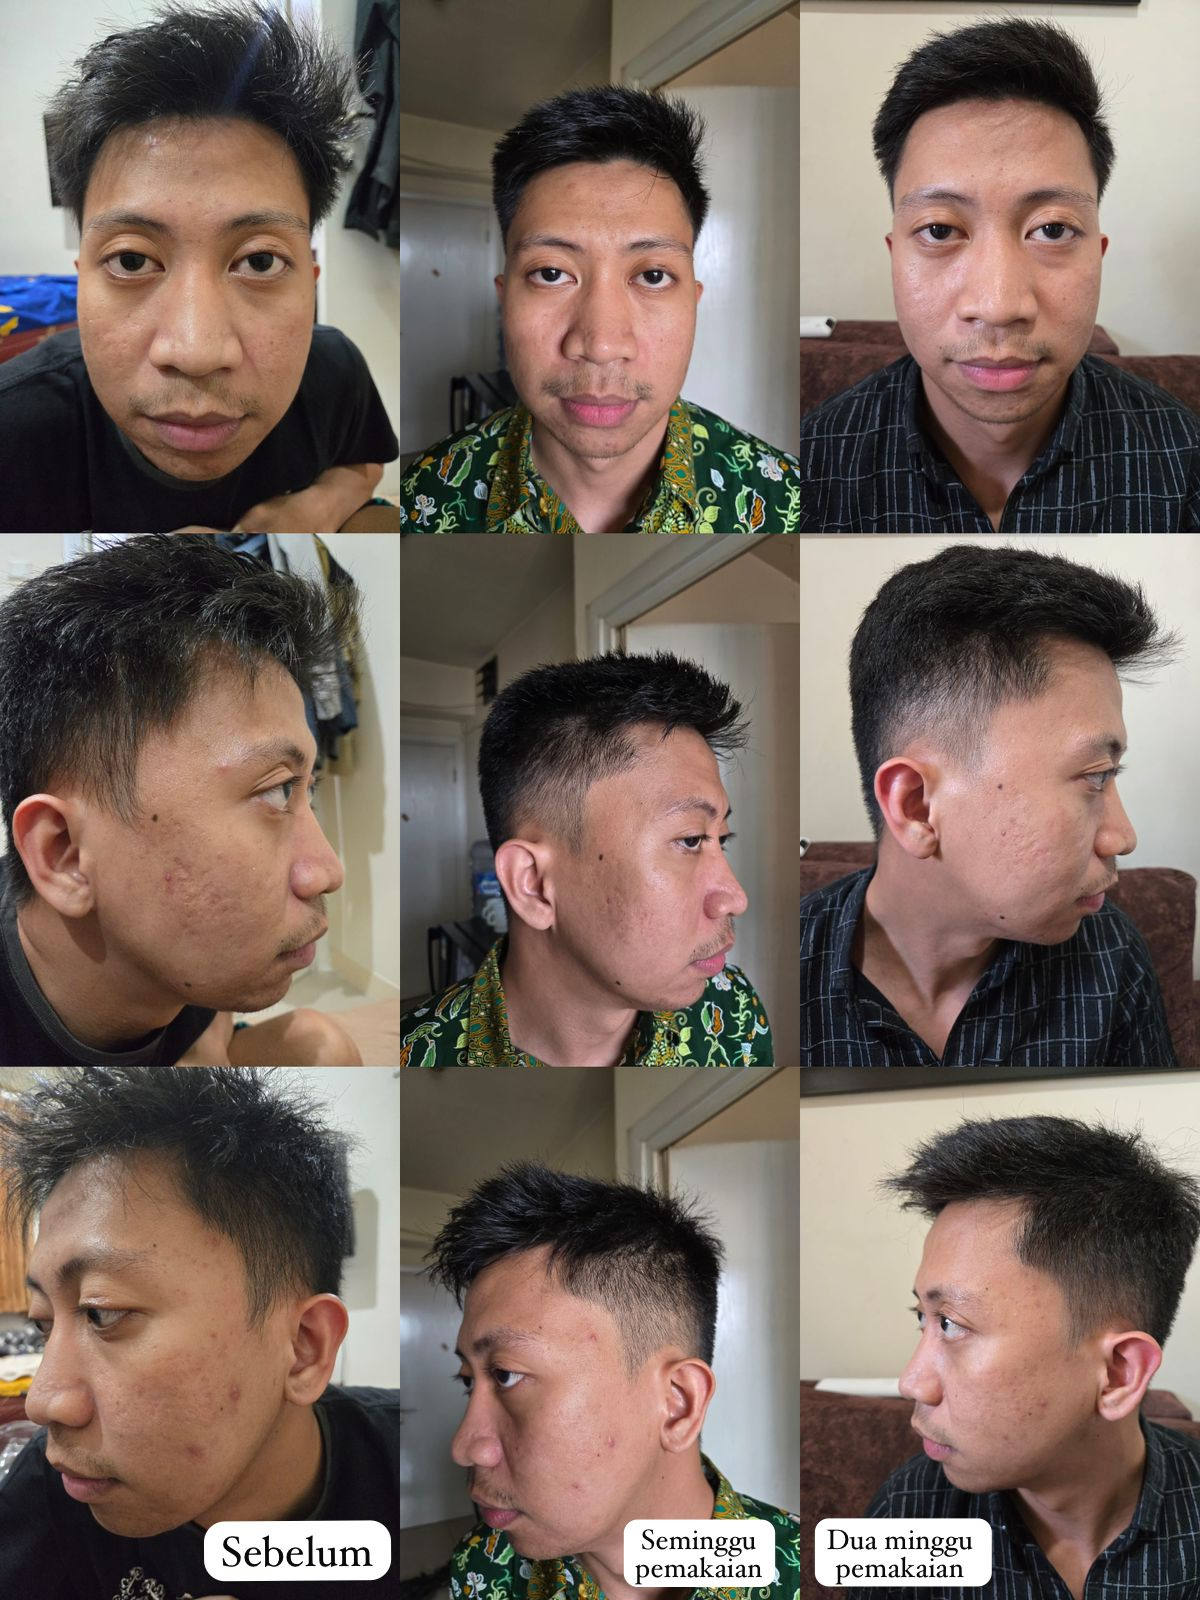
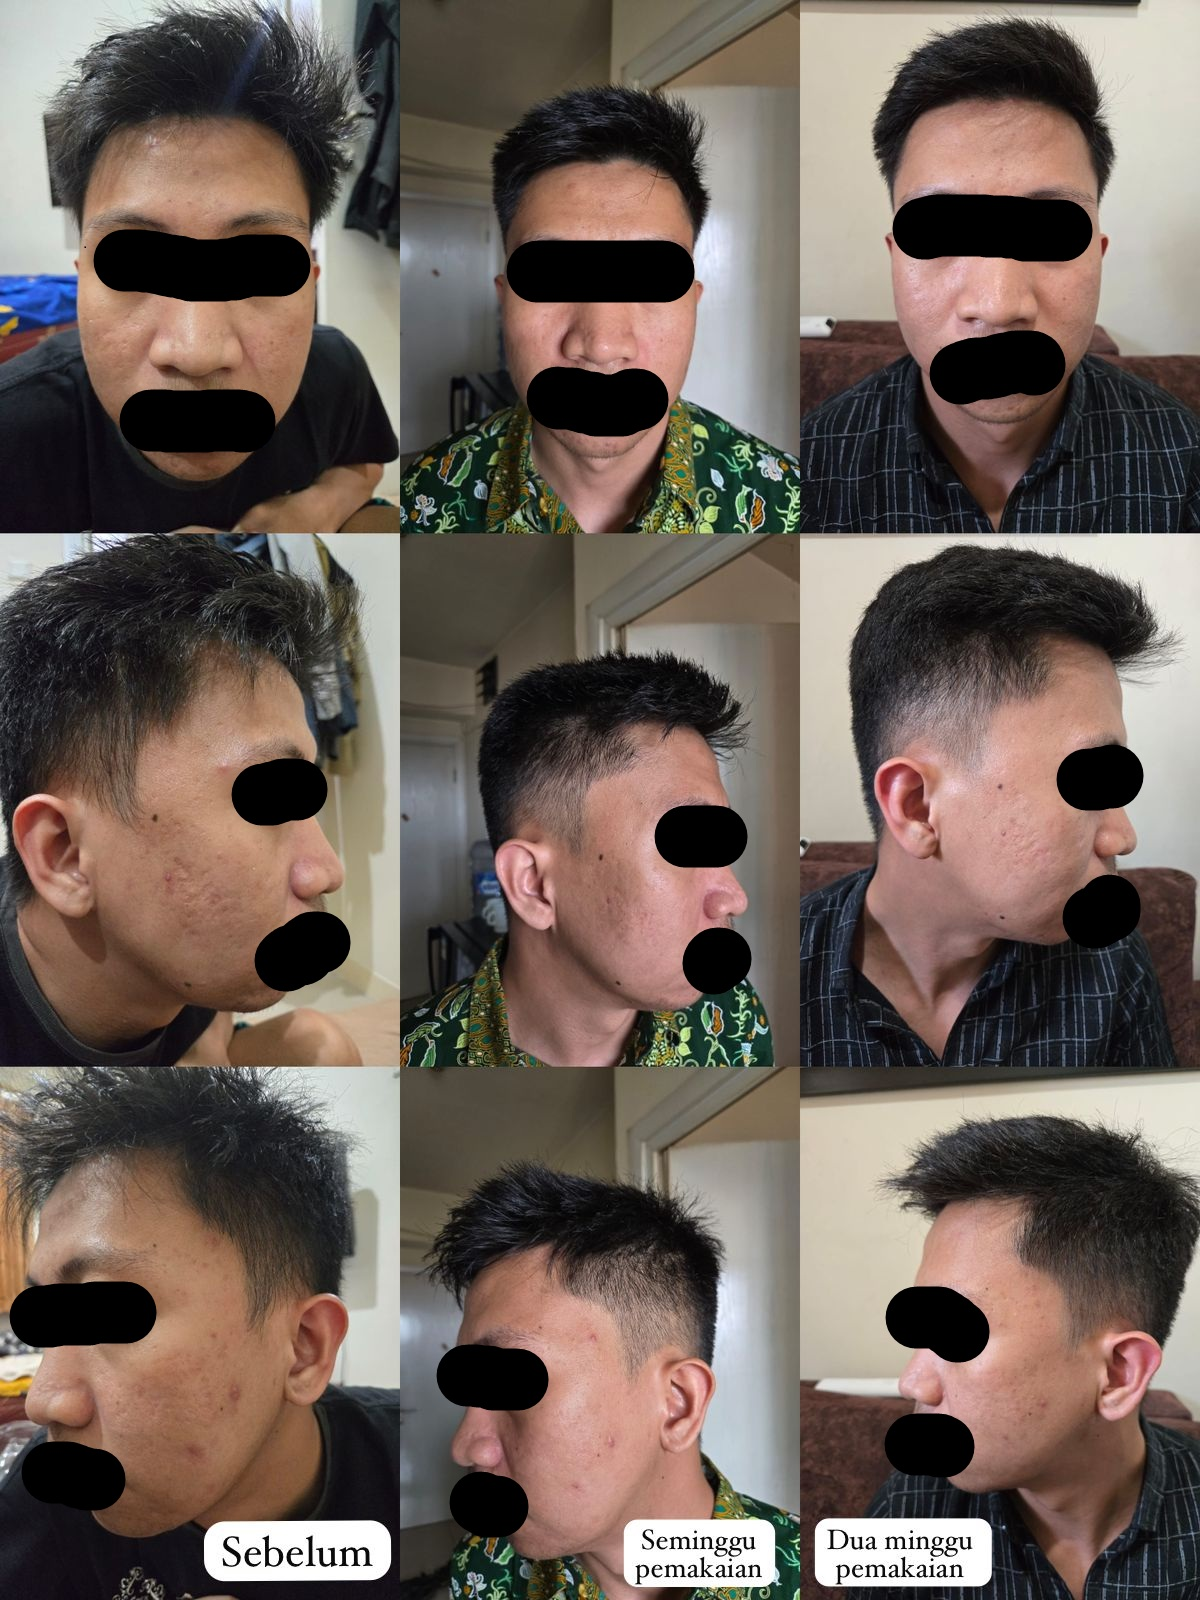
Add censored before-after UI & update clinical
Introduce CSS for censored/ masked before-after photo grids and UI tweaks (new mask-layer, grid variants, science-abstract-card, responsive before-after grid, spacing fixes). Update clinical.html: replace single BA image with a two-card censored before-after grid, update testimonial images/alt text and Novel testimonial copy, add a clinical score section, and replace the abstract paragraph with a styled abstract card. Also replace/rename human images (Faqih/Novel) to new filenames and update image binaries.

diff --git a/clinical.html b/clinical.html
@@ -37,7 +37,7 @@
   <section class="testimonials fade-section">
     <article class="testimonial-card">
       <div class="testimonial-photo censored-face">
-        <img src="assets/images/human/human4.jpeg" alt="Foto testimoni Faqih">
+        <img src="assets/images/human/Faqih1.jpeg" alt="Foto testimoni Faqih">
       </div>
       <blockquote>
         “Kulit saya sangat sensitif bahkan bisa merah berkerak klo berminyak (radang/inflamasi).
@@ -53,10 +53,10 @@
 
     <article class="testimonial-card">
       <div class="testimonial-photo censored-face">
-        <img src="assets/images/human/human2.jpeg" alt="Foto testimoni Novel">
+        <img src="assets/images/human/novel1.jpeg" alt="Foto testimoni Novel">
       </div>
       <blockquote>
-        “Testimoni Novel akan diperbarui setelah data final dari sesi evaluasi berikutnya.”
+        “Setelah melalui breakout parah yang meninggalkan bekas hitam dan kemerahan dan menggunakan serum ini, bekas hitam saya dan peradangan berkurang. Wajah juga semakin cerah dan kemunculan jerawat berkurang”
       </blockquote>
       <div class="testimonial-author">
         <strong>Novel</strong>
@@ -77,9 +77,20 @@
       Image presented without retouching or digital enhancement.
     </p>
 
-    <div class="ba-single-image">
-      <img src="assets/images/science/before-after-1-week-dermoree.jpeg" 
-           alt="Before and After 1 Week Dermoree">
+    <div class="before-after-grid-censored">
+        <div class="ba-censored-card">
+          <div class="ba-censored-image censored-face">
+            <img src="assets/images/human/faqih.jpeg" alt="Before after Faqih">
+          </div>
+          <p>Faqih</p>
+        </div>
+
+        <div class="ba-censored-card">
+          <div class="ba-censored-image censored-face">
+            <img src="assets/images/human/novel.jpeg" alt="Before after Novel">
+          </div>
+          <p>Novel</p>
+        </div>
     </div>
 
     <p class="ba-note">
@@ -127,6 +138,43 @@
   </section>
 
 
+  <section class="score-section fade-section">
+    <h3>Novel Clinical Scoring (0–10)</h3>
+<div class="score-chart">
+      <div class="score-row">
+        <span>Soothing and caring</span>
+        <div class="score-track">
+          <div class="score-fill" style="--score:100%"></div>
+        </div>
+        <strong>9</strong>
+      </div>
+
+      <div class="score-row">
+        <span>Support skin renewal</span>
+        <div class="score-track">
+          <div class="score-fill" style="--score:80%"></div>
+        </div>
+        <strong>8</strong>
+      </div>
+
+      <div class="score-row">
+        <span>Brightens &amp; even tone</span>
+        <div class="score-track">
+          <div class="score-fill" style="--score:90%"></div>
+        </div>
+        <strong>8</strong>
+      </div>
+
+      <div class="score-row">
+        <span>Microbiome friendly barrier</span>
+        <div class="score-track">
+          <div class="score-fill" style="--score:90%"></div>
+        </div>
+        <strong>9</strong>
+      </div>
+    </div>
+
+  </section>
 
   <!-- =========================
      SAFETY & TOLERABILITY
@@ -140,12 +188,12 @@
   </section>
 
   <section class="science-abstract fade-section"></section>
-    <p>
-      <strong>Abstract:</strong> This review synthesizes scientific evidence supporting the efficacy of key bioactive compounds
-      —Centella asiatica exosomes, DNA salmon (PDRN), niacinamide, and fermented honey.
-      Each compound's mechanisms of action and documented benefits are discussed,
-      highlighting their synergistic potential to deliver scientifically-backed results.
-    </p>
+    <div class="science-abstract-card">
+      <h3>Abstract</h3>
+      <p>
+        This review synthesizes scientific evidence supporting the efficacy of key bioactive compounds—Centella asiatica exosomes, DNA salmon (PDRN), niacinamide, and fermented honey. Each compound's mechanisms of action and documented benefits are discussed, highlighting their synergistic potential to deliver scientifically-backed results.
+      </p>
+    </div>
   </section>
 
   <section class="science-grid fade-section">

diff --git a/assets/css/05-components.css b/assets/css/05-components.css
@@ -141,7 +141,7 @@
   .highlight-card img {
     width: 40px;
     height: 40px;
-    margin-bottom: 16px;
+    margin-bottom: 0 auto 16px;
   }
   
   /* Judul highlight */
@@ -593,7 +593,7 @@
   aspect-ratio: 4 / 5;
   border-radius: 14px;
   overflow: hidden;
-  margin-bottom: 16px;
+  margin: 0 auto 16px;
   position: relative;
 }
 
@@ -603,25 +603,56 @@
   object-fit: cover;
 }
 
-.censored-face::before,
-.censored-face::after {
-  content: "";
+
+/* Sensor grid untuk foto kolase before/after */
+.censored-grid {
+  --bar-color: rgba(0, 0, 0, 0.88);
+  --bar-height: 18px;
+  --bar-width: 72%;
+  --eye-offset: -8%;
+  --mouth-offset: 50%;
+}
+
+.mask-layer {
   position: absolute;
-  left: 50%;
-  transform: translateX(-50%);
-  width: 62%;
-  height: 18px;
-  background: rgba(0, 0, 0, 0.85);
-  border-radius: 10px;
+  inset: 0;
+  pointer-events: none;
 }
 
-.censored-face::before {
-  top: 30%;
+.mask-layer span {
+  justify-self: center;
+  align-self: center;
+  width: var(--bar-width);
+  height: var(--bar-height);
+  background: var(--bar-color);
+  border-radius: 999px;
 }
 
-.censored-face::after {
-  top: 62%;
+/* FAQIH = 9 titik (3x3) */
+.faqih-grid .mask-layer {
+  display: grid;
+  grid-template-columns: repeat(3, 1fr);
+  grid-template-rows: repeat(3, 1fr);
 }
+
+/* NOVEL = 4 titik (2x2) */
+.novel-grid .mask-layer {
+  display: grid;
+  grid-template-columns: repeat(2, 1fr);
+  grid-template-rows: repeat(2, 1fr);
+  --bar-width: 64%;
+  --eye-offset: -12%;
+  --mouth-offset: 28%;
+}
+
+.mask-layer.eyes span {
+  transform: translateY(var(--eye-offset));
+}
+
+.mask-layer.mouths span {
+  transform: translateY(var(--mouth-offset));
+}
+
 
 .testimonial-card blockquote {
   font-size: 20px;
@@ -694,16 +725,35 @@
   width: var(--score);
 }
 
+
 .science-abstract {
   max-width: 1000px;
-  margin: 0 auto 36px;
+  margin: 0 auto 52px;
+  padding: 0 12px;
 }
 
-.science-abstract p {
-  background: #fff;
-  border: 1px solid #e6e6e6;
-  border-radius: 14px;
-  padding: 28px;
+.science-abstract-card {
+  max-width: 900px;
+  margin: 0 auto;
+  background: #ffffff;
+  border: 1px solid #dfe4e1;
+  border-left: 5px solid var(--leaf-green);
+  border-radius: 16px;
+  padding: 26px 30px;
+  box-shadow: 0 12px 28px rgba(0, 0, 0, 0.05);
+}
+
+.science-abstract-card h3 {
+  margin-bottom: 10px;
+  font-size: 34px;
+  color: var(--text-dark);
+}
+
+.science-abstract-card p {
+  margin: 0;
+  line-height: 1.8;
+  font-size: 19px;
+  color: var(--text-dark);
   text-align: left;
 }
 
@@ -766,5 +816,49 @@
   .science-card .science-image {
     max-width: 100%;
     aspect-ratio: 16 / 10;
+  }
+}
+
+
+.before-after-grid-censored {
+  display: grid;
+  grid-template-columns: repeat(2, minmax(260px, 1fr));
+  gap: 20px;
+  max-width: 900px;
+  margin: 0 auto;
+}
+
+.ba-censored-card {
+  background: #fff;
+  border: 1px solid #ececec;
+  border-radius: 14px;
+  padding: 16px;
+}
+
+.ba-censored-image {
+  width: 100%;
+  aspect-ratio: 4 / 5;
+  border-radius: 12px;
+  overflow: hidden;
+  position: relative;
+}
+
+.ba-censored-image img {
+  width: 100%;
+  height: 100%;
+  object-fit: cover;
+}
+
+.ba-censored-card p {
+  margin-top: 10px;
+  text-align: center;
+  color: var(--text-dark);
+  font-weight: 500;
+}
+
+
+@media (max-width: 900px) {
+  .before-after-grid-censored {
+    grid-template-columns: 1fr;
   }
 }
